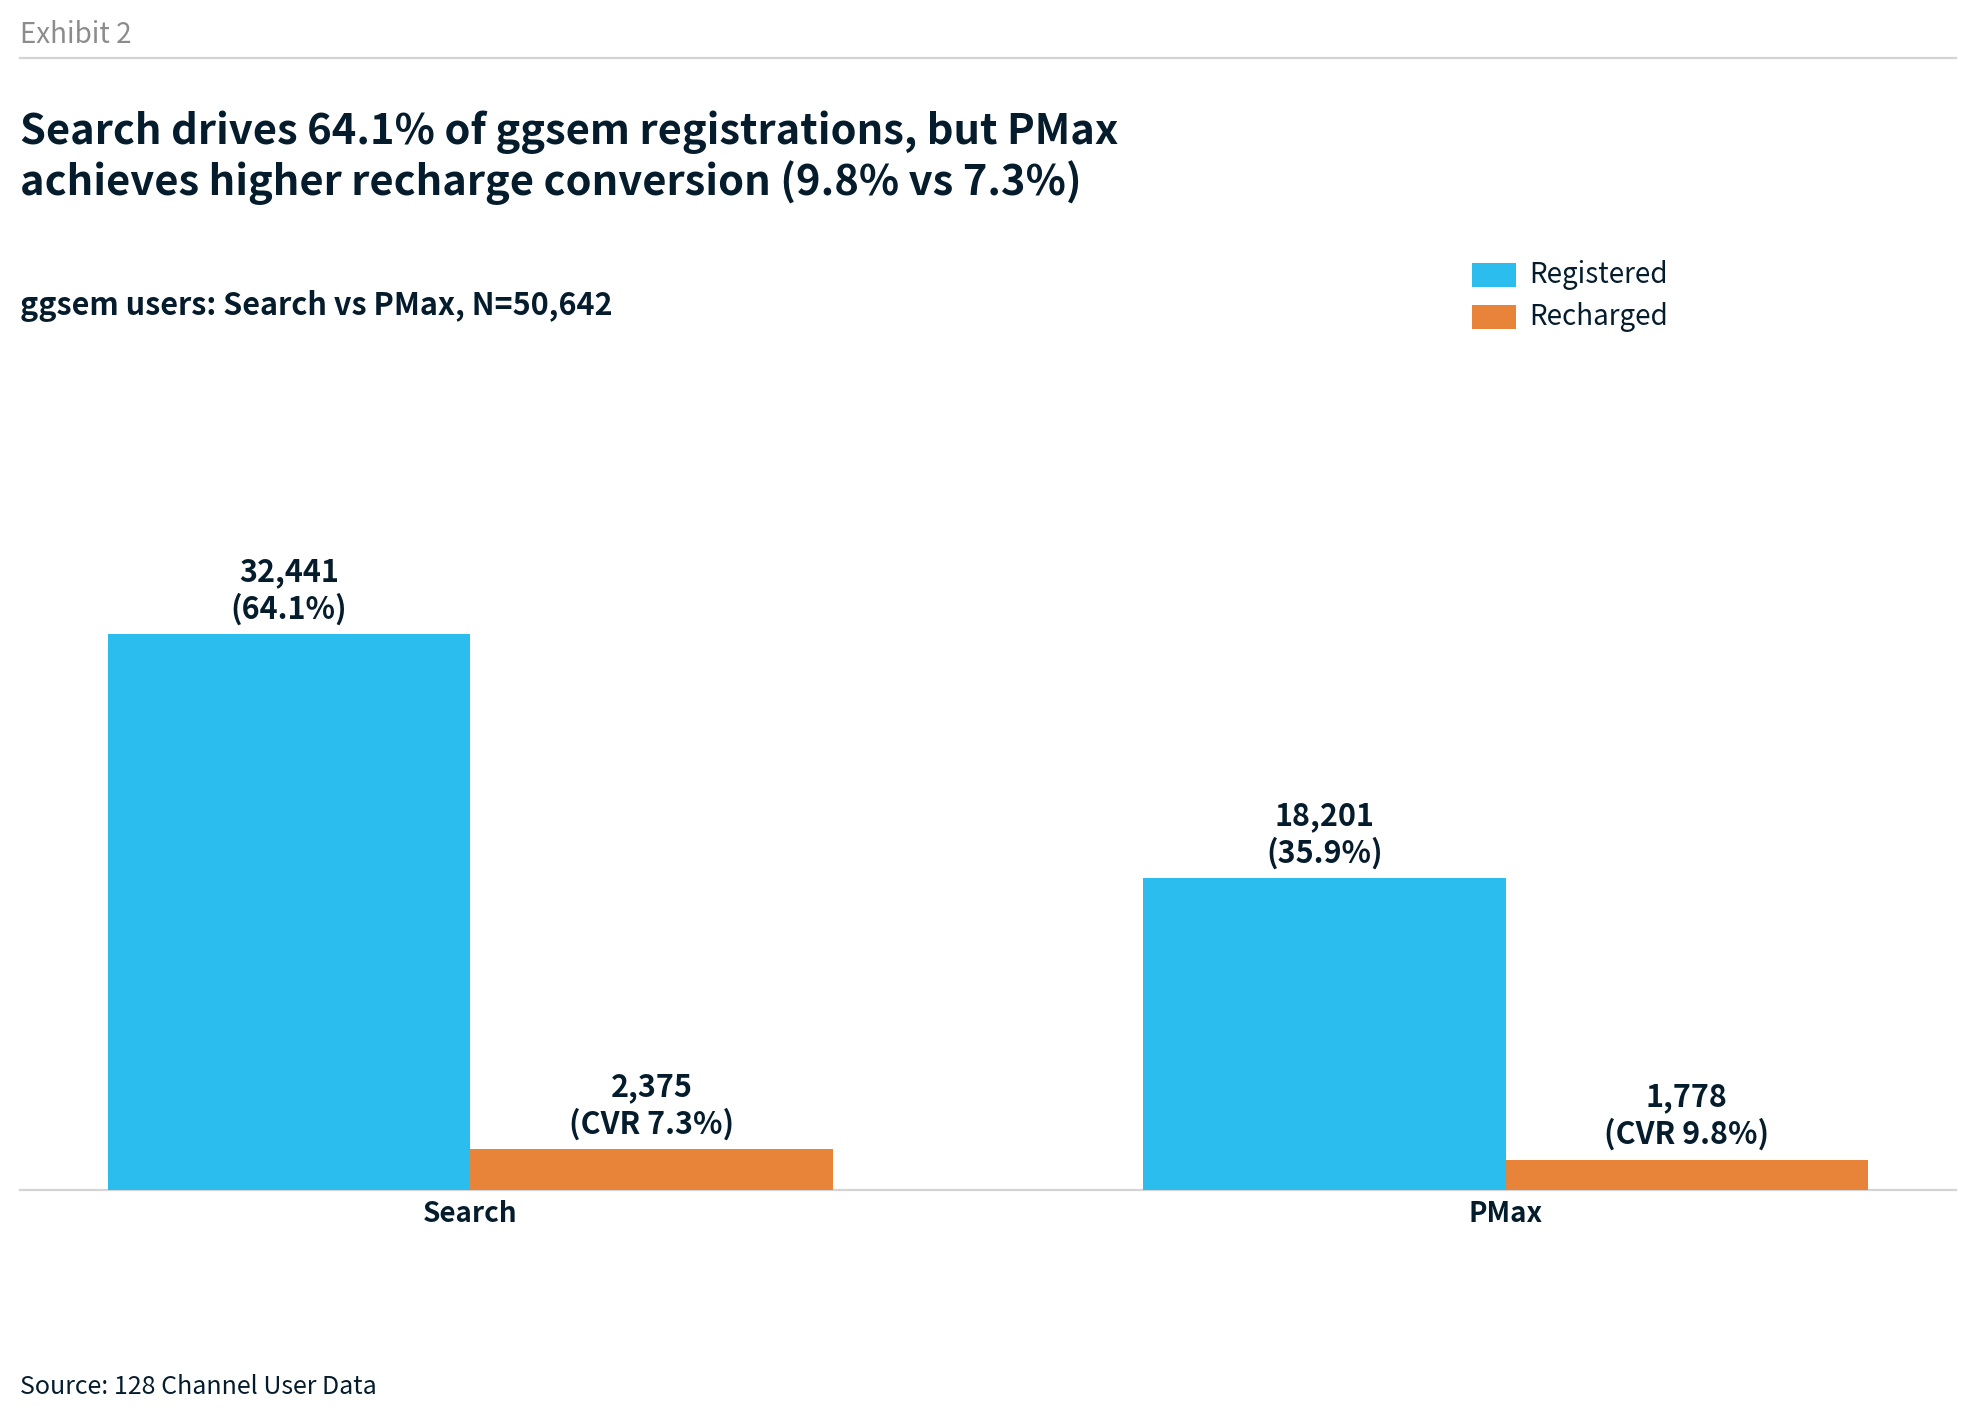
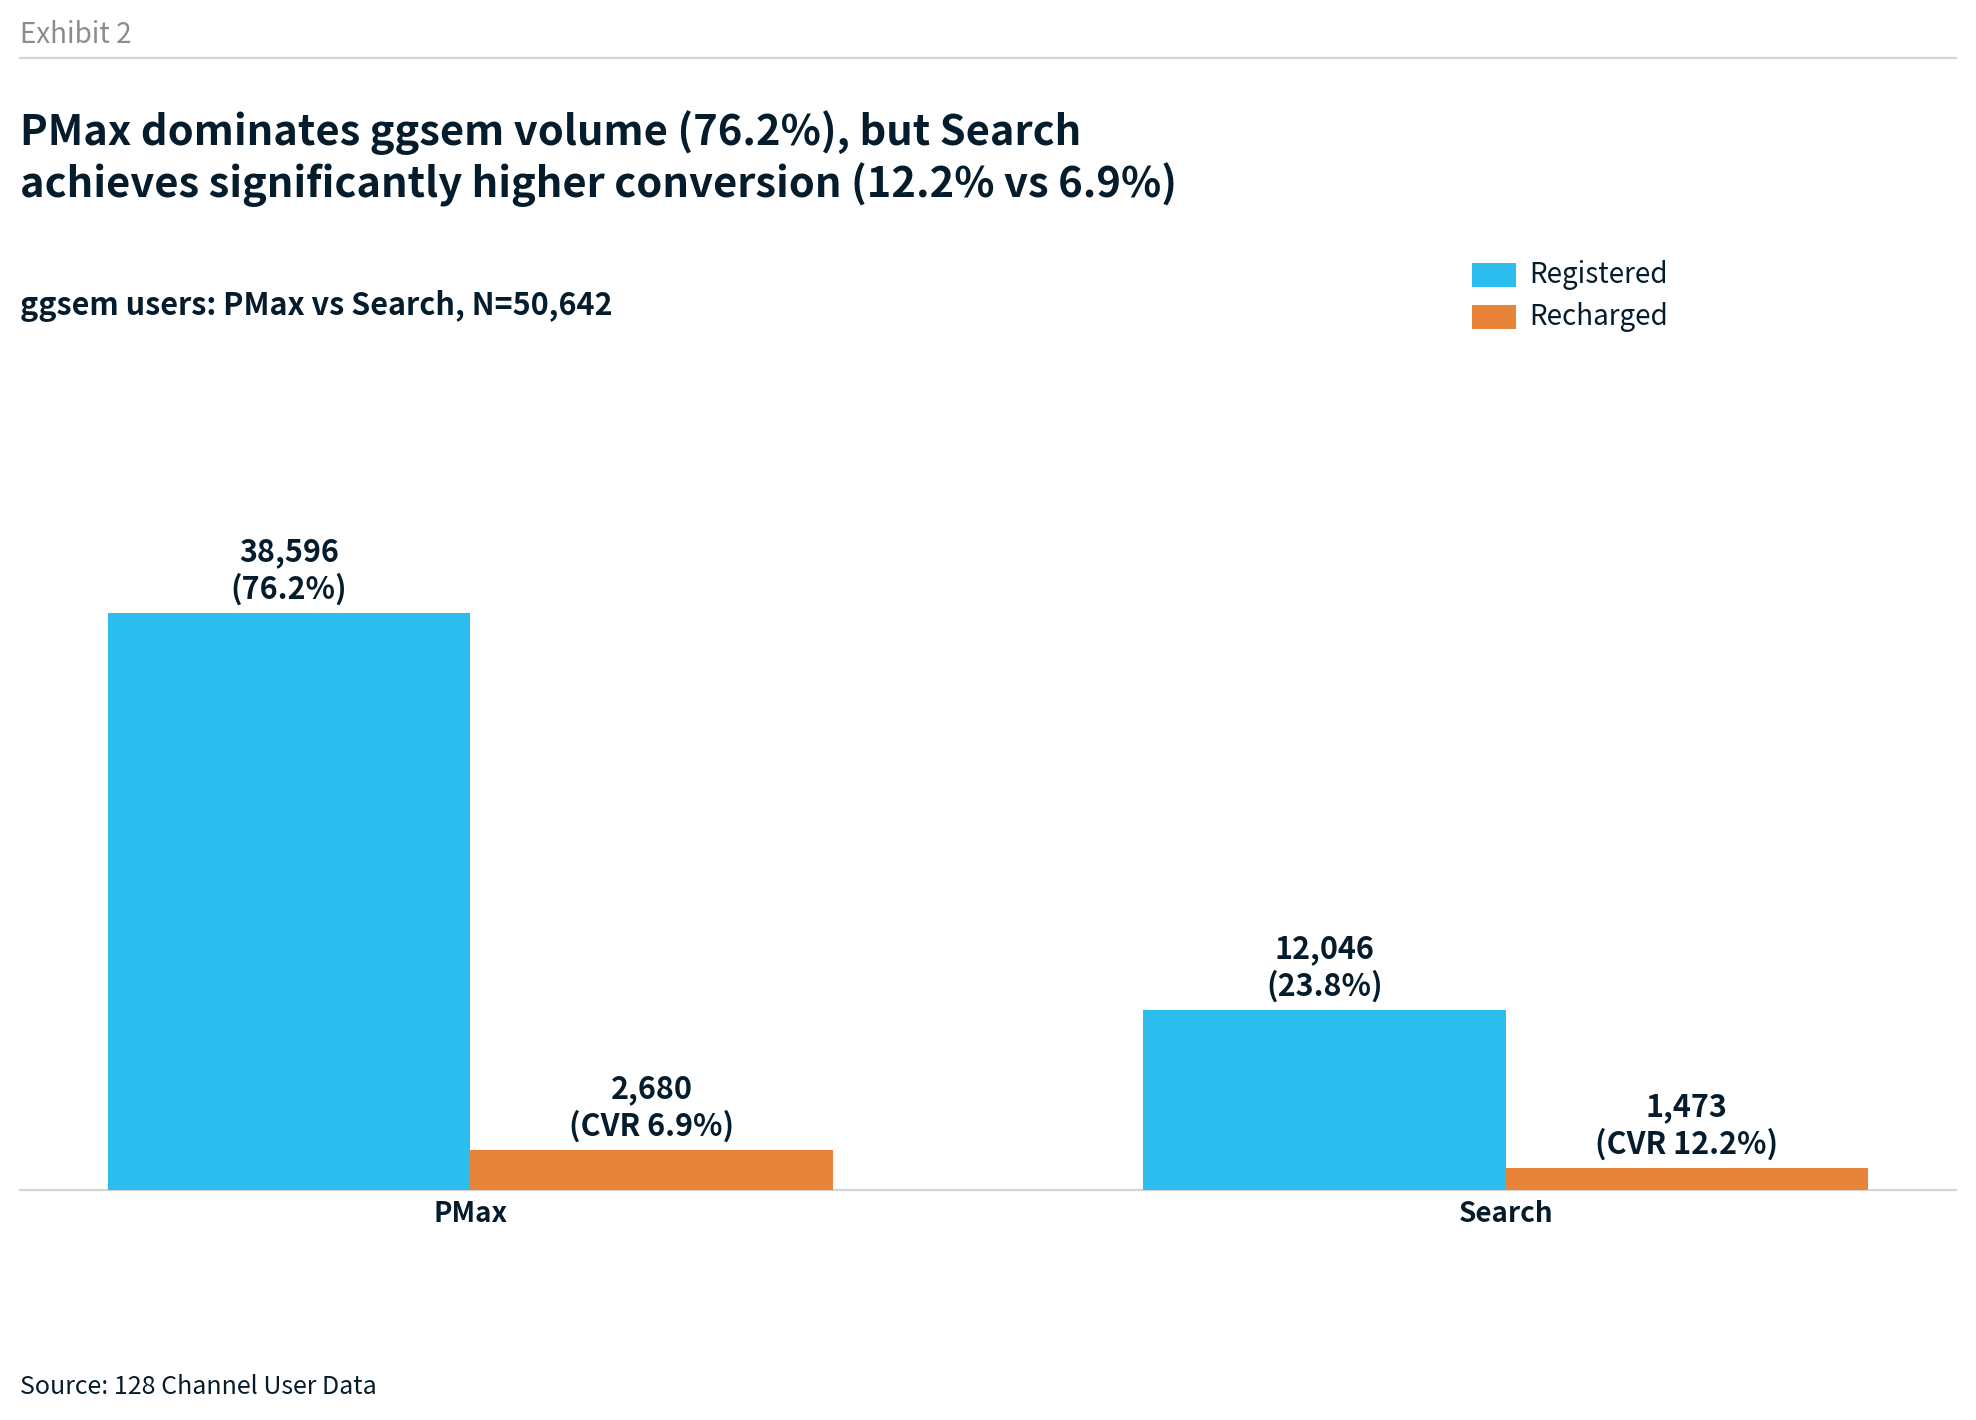
fix: PMax vs Search分类修正 - 按综合ytag整体包含判断
- PMax(含pmax或display字符): 38,596 (76.2%), CVR 6.9%
- Search(其余): 12,046 (23.8%), CVR 12.2%
- Search用户质量更优: 人均收入$101 vs PMax $40

diff --git a/128-channel-analysis/README.md b/128-channel-analysis/README.md
@@ -23,18 +23,19 @@
 
 ![ytag来源分布](output/01_ytag_source_distribution.png)
 
-### 1.2 ggsem用户中Search vs PMax占比
+### 1.2 ggsem用户中PMax vs Search占比
 
 | 投放类型 | 用户数 | 占ggsem比例 | 充值人数 | 充值转化率 | 总收入 |
 |---------|--------|------------|---------|-----------|--------|
-| **Search** | **32,441** | **64.1%** | 2,375 | 7.3% | $175,915 |
-| **PMax** | **18,201** | **35.9%** | 1,778 | 9.8% | $78,935 |
+| **PMax** | **38,596** | **76.2%** | 2,680 | 6.9% | $105,963 |
+| **Search** | **12,046** | **23.8%** | 1,473 | 12.2% | $148,887 |
 
-> 分类逻辑：综合ytag中"ggsem_"后缀以pmax开头（含pmaxZH/pmaxEN）→ PMax；其余 → Search
+> 分类逻辑：综合ytag整体含"pmax"或"display"字符 → PMax；其余 → Search
 
 **核心发现：**
-- Search贡献了ggsem的64.1%用户量和69%收入，是主力获客引擎
-- PMax用户量少于Search，但**充值转化率更高**（9.8% vs 7.3%）
+- PMax占ggsem的76.2%用户量，是主力拉新引擎
+- Search虽然用户量少，但**充值转化率远高于PMax**（12.2% vs 6.9%），且总收入更高（$148,887 vs $105,963）
+- Search用户质量明显更优，人均收入$101 vs PMax的$40
 
 ![ggsem投放类型](output/02_ggsem_campaign_type.png)
 
@@ -153,7 +154,7 @@ ggsem从**2025年1月**起才开始大规模投放，此前注册主要来自No 
 3. **加大品牌词投入**：surfercloud系列关键词转化率20%+，ARPU高，值得追加预算
 4. **砍掉零转化词**：deepseek相关词带来注册但0充值，建议加入否定关键词
 5. **拓展中文长尾词**：云桌面、云电脑等词转化率10-20%+，可以扩量
-6. **PMax vs Search预算调整**：PMax转化率9.8%高于Search的7.4%，考虑适当增加PMax预算
+6. **Search vs PMax预算再分配**：Search的CVR(12.2%)几乎是PMax(6.9%)的两倍，人均收入$101 vs $40，考虑加大Search预算占比
 
 ### 🟢 长期策略
 7. **重新评估ggsem整体ROI**：ggsem转化率仅8.2%，总收入$254,850；而Other ytag 4,848人带来$272,764收入，说明自然渠道性价比远高于付费投放
